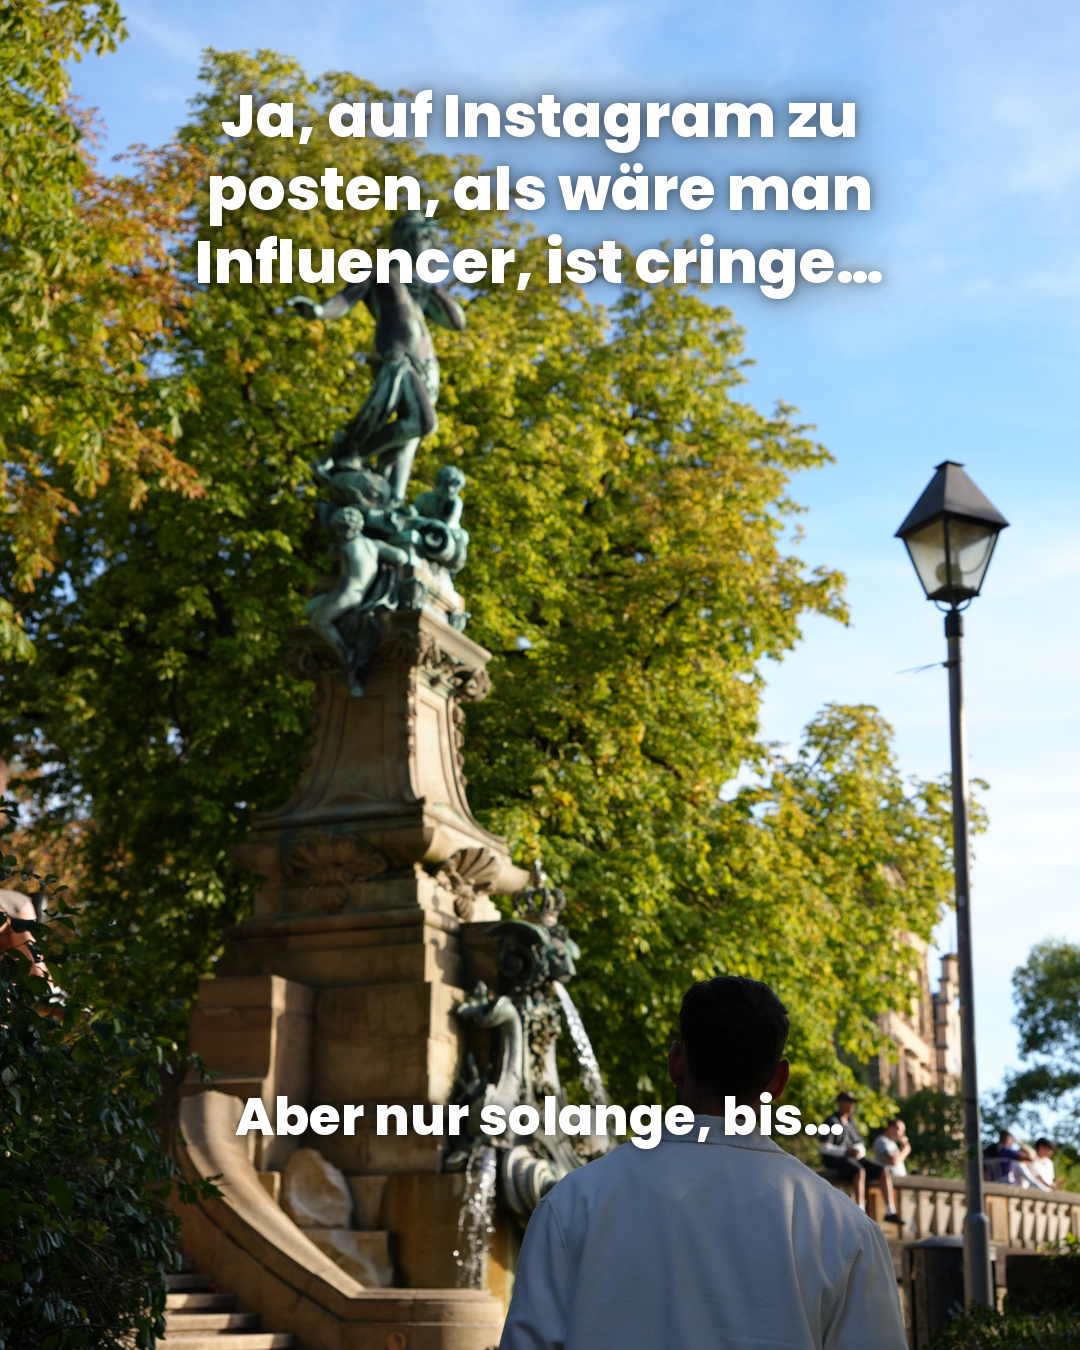
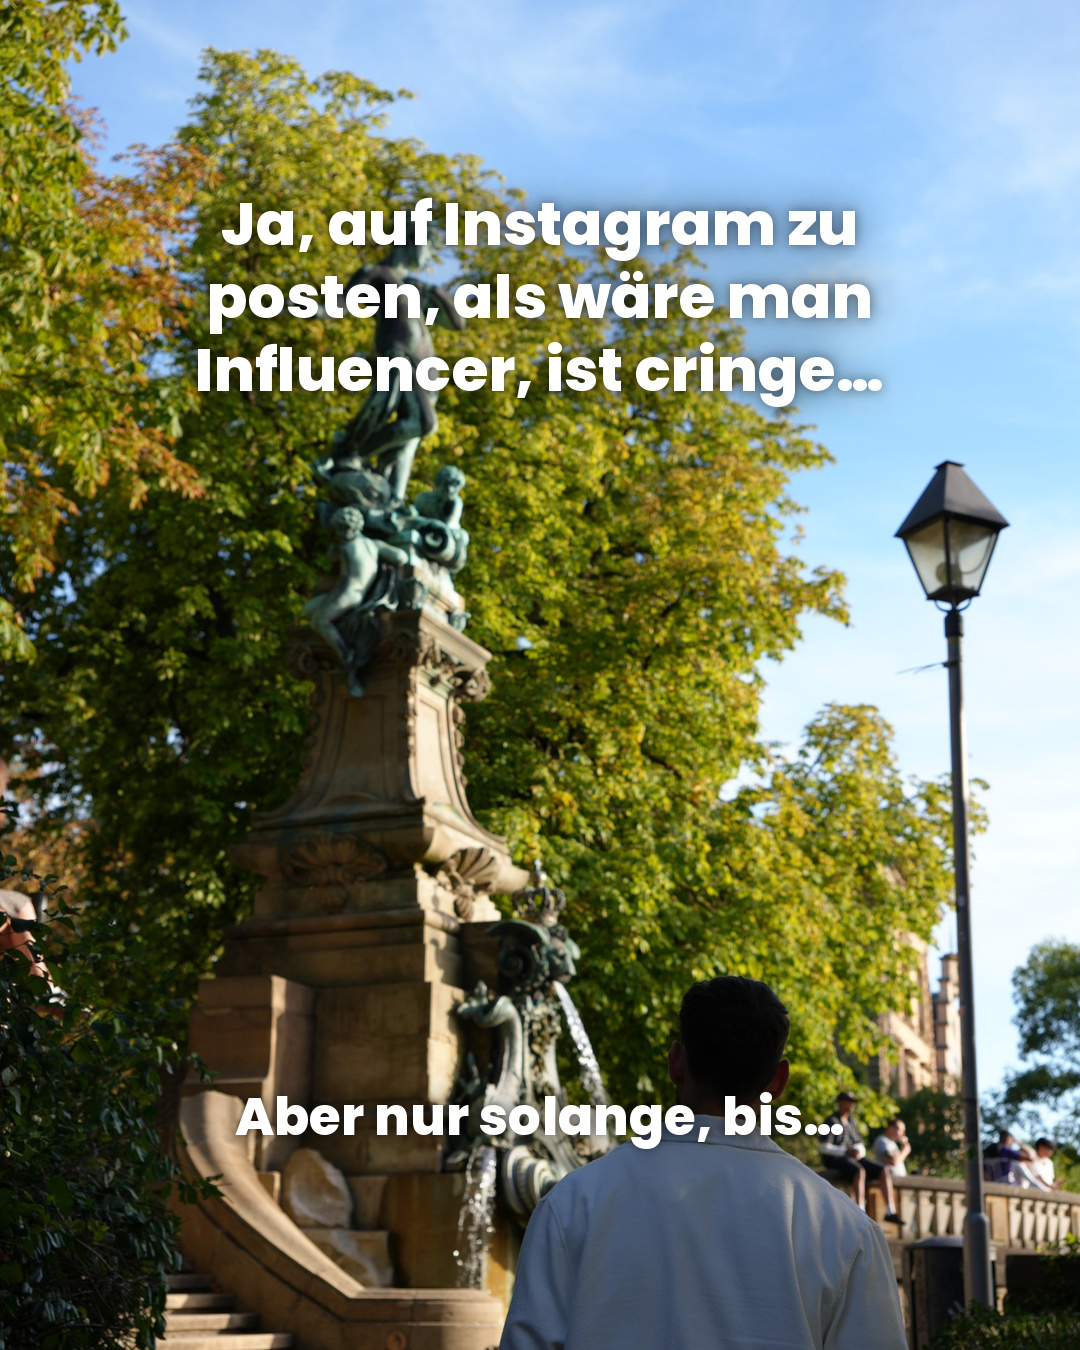
Cringe-Post: Cover tiefer, eigene Uhrzeiten, Spass statt gluecklich, Profil-Slide
- Cover: Textblock tiefer gesetzt, er klebte zu nah am oberen Rand.
- Jede Nachricht hat jetzt ihre eigene Uhrzeit, ueber alle Slides hinweg
  kommt keine zweimal vor. Vorher tauchten 15:15 und 20:08 doppelt auf, was
  die Blasen wie einen einzigen Chat wirken liess statt wie sieben Leute.
- Slide 5 heisst jetzt "...die Leute sehen, wie viel Spass du an der Sache
  hast."
- Neuer Slide 7: "Willkommen auf meinem Profil." mit der Einladung, zu
  folgen. Die Caption endet jetzt passend dazu.

Claude-Session: https://claude.ai/code/session_01HQCAC1gXM5ymEH3L17w63v

Changed region(s): [[0.1833, 0.0622, 0.825, 0.3111]]

diff --git a/posts/spezial/es-ist-cringe/bau.py b/posts/spezial/es-ist-cringe/bau.py
@@ -241,7 +241,7 @@ def nachrichten(foto, ziel, kopf_text, blasen, mitte=(0.5, 0.5), gr_oben=64,
 slide("DSC06534.jpeg", os.path.join(OUT, "01.jpg"),
       "Ja, auf Instagram zu\nposten, als wäre man\nInfluencer, ist cringe…",
       "Aber nur solange, bis…", mitte=(0.5, 0.45), gr_oben=60, gr_unten=52,
-      oben_y=0.055, unten_y=0.80, unten_x=0.5)
+      oben_y=0.135, unten_y=0.80, unten_x=0.5)
 
 nachrichten("DSC06671.jpeg", os.path.join(OUT, "02.jpg"),
             "…dir Kunden täglich\nsolche Nachrichten\nschicken.",
@@ -256,8 +256,8 @@ nachrichten("laptop-handy-sprechen.jpeg", os.path.join(OUT, "03.jpg"),
             [("Du hast es wirklich geschafft, mein Leben zu verändern! DANKE!\U0001F64F\U0001F3FD\u2764\uFE0F", "09:12", 33, 0.17, -2.2),
              ("Ich habe mit dir so viele kg abgenommen, aber viel viel mehr gewonnen. "
               "Ich fühle mich besser, habe mehr Energie, bin nicht müde. Du hast es zu "
-              "meinem Lebensstil gemacht.", "20:08", 33, 0.04, 1.8),
-             ("Dank dir habe ich meinen neuen Weg gefunden.", "15:15", 33, 0.22, -1.6)],
+              "meinem Lebensstil gemacht.", "21:34", 33, 0.04, 1.8),
+             ("Dank dir habe ich meinen neuen Weg gefunden.", "18:27", 33, 0.22, -1.6)],
             mitte=(0.5, 0.30), gr_oben=64, start=0.28, abstand=18)
 
 slide("DSC06621.jpeg", os.path.join(OUT, "04.jpg"),
@@ -265,7 +265,7 @@ slide("DSC06621.jpeg", os.path.join(OUT, "04.jpg"),
       mitte=(0.5, 0.42), gr_oben=62, oben_y=0.055)
 
 slide("laptop-stativ-lachen.jpeg", os.path.join(OUT, "05.jpg"),
-      "…die Leute sehen,\nwie glücklich dich\ndas Ganze macht.",
+      "…die Leute sehen,\nwie viel Spaß du an\nder Sache hast.",
       mitte=(0.5, 0.12), gr_oben=66, oben_y=0.06)
 
 slide("DSC06785.jpeg", os.path.join(OUT, "06.jpg"),
@@ -273,3 +273,9 @@ slide("DSC06785.jpeg", os.path.join(OUT, "06.jpg"),
       "Aber wenn aus Anfangen lang genug\nDranbleiben wird, ist der Erfolg so\ngut wie sicher.\n\nAlso: Fang an. Und stick to the plan.",
       mitte=(0.5, 0.42), gr_oben=62, gr_unten=48, oben_y=0.055,
       breite_unten=0.88, unten_y=0.66)
+
+slide("DSC06172.jpeg", os.path.join(OUT, "07.jpg"),
+      "Willkommen auf\nmeinem Profil.",
+      "Wenn du täglich motiviert werden willst\nund alltagstaugliche, realistische Tipps\nsuchst, folg mir gerne rein.",
+      mitte=(0.5, 0.45), gr_oben=62, gr_unten=42, oben_y=0.60,
+      breite_unten=0.88, unten_y=0.775)

diff --git a/posts/spezial/es-ist-cringe/post.md b/posts/spezial/es-ist-cringe/post.md
@@ -23,8 +23,9 @@ Inhalt kommt aus Aarons Notiz vom 03.11.
 | 2 | …dir Kunden täglich solche Nachrichten schicken. | Am Handy vor dem Schloss (`DSC06671`) | 4 kurze Blasen |
 | 3 | …du immer wieder hörst: „Du hast mein Leben verändert." | Sprachnachricht am Laptop (`laptop-handy-sprechen`) | 3 Blasen |
 | 4 | …die Leute, die dich anfangs ausgelacht haben, dich nach deinem Rat fragen. | Vor dem Schloss, Blick in die Kamera (`DSC06621`) | — |
-| 5 | …die Leute sehen, wie glücklich dich das Ganze macht. | Am Laptop mit Handystativ, lachend (`laptop-stativ-lachen`) | — |
+| 5 | …die Leute sehen, wie viel Spaß du an der Sache hast. | Am Laptop mit Handystativ, lachend (`laptop-stativ-lachen`) | — |
 | 6 | Den ersten Schritt zu machen wird immer unangenehm sein. / Aber wenn aus Anfangen lang genug Dranbleiben wird… | Durch die Arkaden auf die Kamera zu (`DSC06785`) | — |
+| 7 | Willkommen auf meinem Profil. / Wenn du täglich motiviert werden willst und alltagstaugliche, realistische Tipps suchst, folg mir gerne rein. | An der Betonwand mit Kamera (`DSC06172`) | — |
 
 ## Die Nachrichten
 
@@ -48,7 +49,10 @@ von oben nach unten bleibt, damit es lesbar bleibt.
 | 3 | „Ich habe mit dir so viele kg abgenommen, aber viel viel mehr gewonnen. Ich fühle mich besser, habe mehr Energie, bin nicht müde. Du hast es zu meinem Lebensstil gemacht." |
 | 3 | „Dank dir habe ich meinen neuen Weg gefunden." |
 
-Die Uhrzeiten sind aus den Originalnachrichten übernommen. Die Emoji sind
+Jede Blase hat eine **eigene Uhrzeit**, keine kommt zweimal vor — über alle
+Slides hinweg. So wirkt es wie sieben verschiedene Leute und nicht wie ein
+Chat. Vier Uhrzeiten stammen aus den Originalnachrichten, drei sind
+angepasst, damit sich keine wiederholt. Die Emoji sind
 PNG-Grafiken aus `assets/emoji/`, weil die Blasen-Schrift (Inter) keine
 Emoji-Glyphen hat und Pillow die Color-Emoji-Fonts von Google nicht zeichnen
 kann. Herkunft und Lizenz: `assets/emoji/HERKUNFT.md`.
@@ -85,3 +89,5 @@ Den ersten Schritt zu machen wird immer unangenehm sein. Daran ändert sich nich
 Aber wenn aus Anfangen lang genug Dranbleiben wird, ist der Erfolg so gut wie sicher.
 
 Also: Fang an. Und stick to the plan. 🤝
+
+Und wenn du täglich motiviert werden willst und alltagstaugliche, realistische Tipps suchst: folg mir gerne rein.
